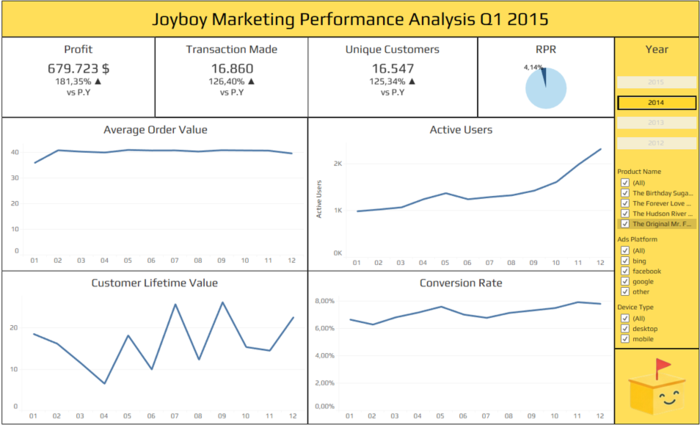
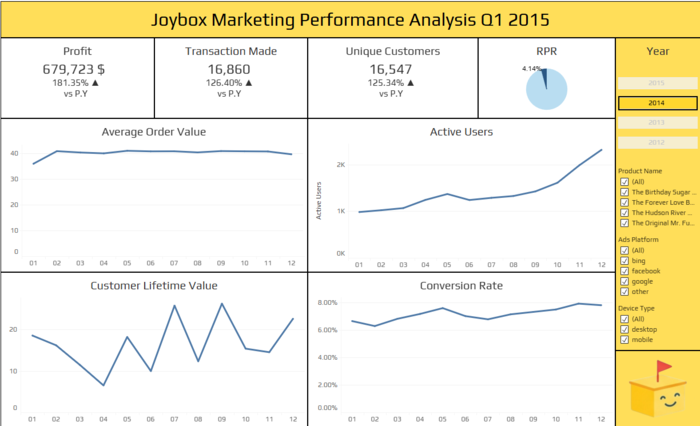
Finalers

diff --git a/index.html b/index.html
@@ -1127,15 +1127,15 @@
                                 Data used from <a href="https://mavenanalytics.io/data-playground/toy-store-e-commerce-database" onclick="window.open(this.href); return false;">MarvenAnalytics</a>
                             </div>
 
-                            <div class="analysis-chart-placeholder"><img src="DEEPP1.png" alt="Descriptive Analysis">Description 1: Explaining Chart 1</div>
-                            <div class="analysis-chart-placeholder"><img src="DEEPP2.png" alt="RPR Analysis">Description 2: Explaining Chart 2</div>
-                            <div class="analysis-chart-placeholder"><img src="DEEPP3.png" alt="Cohort Analysis">Description 3: Explaining Chart 3</div>
-                            <div class="analysis-chart-placeholder"><img src="DEEPP4.png" alt="Funnel Analysis">Description 4: Explaining Chart 4</div>
+                            <div class="analysis-chart-placeholder"><img src="DEEPP2.png" alt="EDA Analysis">Doing EDA analysis helped me find that there's imbalance active users per device type. <br> Tools: Tableau, Collabs</div>
+                            <div class="analysis-chart-placeholder"><img src="DEEPP3.png" alt="Cohort Analysis">With cohort analysis correlation to RPR analysis, it is found that our platform doesn't have repeated customers, expected for only selling toys. <br> Tools: BigQuery, Excel</div>
+                            <div class="analysis-chart-placeholder"><img src="DEEPP4.png" alt="Funnel Analysis">Funnel shows that there's leak from landing page into product catalogue which further found that there's leak in user experience. <br> Tools: Collabs</div>
                             
                             <div class="analysis-chart-placeholder">
                                 <a href="https://public.tableau.com/views/DEEPPVisualization_17803237173970/Dashboard?:language=en-GB&publish=yes&:sid=&:redirect=auth&:display_count=n&:origin=viz_share_link" onclick="window.location.href=this.href; return false;">
                                     <img src="Dashboard.png" alt="Interactive Dashboard">
                                 </a>
+                                With these findings, I summarize it into interactive dashboard for ease-to-use executive decision making. <br> Tools: Tableau (Click on the dashboard)
                             </div>
                         </div>
                     </div>